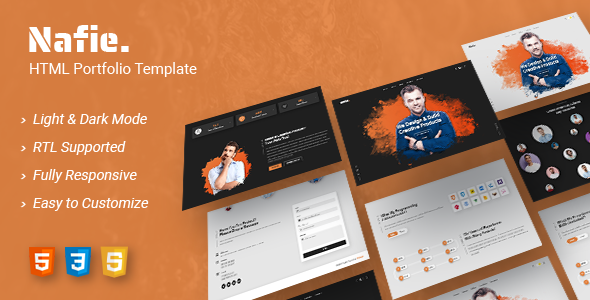
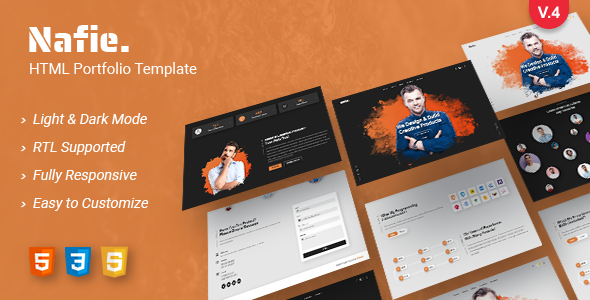
feat(prod): update description, preview & thumbnail files

Changed region(s): [[0.8847, 0.0, 0.9763, 0.12]]

diff --git a/html-description.html b/html-description.html
@@ -127,3 +127,42 @@
     Important: This not a wordpress theme.
   </strong>
 </p>
+
+<h2 id="item-description__updates">Updates:</h2>
+
+<pre>07/02/2023
+- Remove VueJS and Bootstrap and just use HTML/JavaScript only.
+- General enhancements.
+</pre>
+
+<pre>07/03/2022
+- Added: Parallax Animations on page scrolling.
+- Updated: Preloader Screen.
+- Updated: Back Top Scroll Indicator.
+- General enhancements.
+</pre>
+
+<pre>15/11/2021
+- Convert the language switcher from a button to a dropdown.
+- Bootstrap CSS separated from CSS Libraries file.
+</pre>
+
+<pre>29/10/2021
+- Updated: color scheme to use CSS variables and HSL functions.
+- Updated: fonts to use CSS variables.
+</pre>
+
+<pre>04/10/2021
+- General enhancements.
+- Added: Single Portfolio Page.
+- Added: Archive Portfolio Page.
+- Added: 404 Page.
+</pre>
+
+<pre>15/04/2021
+- Enhancements: Show the message 'No more works' to the user if there is no more works in the portfolio.
+</pre>
+
+<pre>12/04/2021
+- Enhancements: Added the functionality to load more works in Portfolio section.
+</pre>
